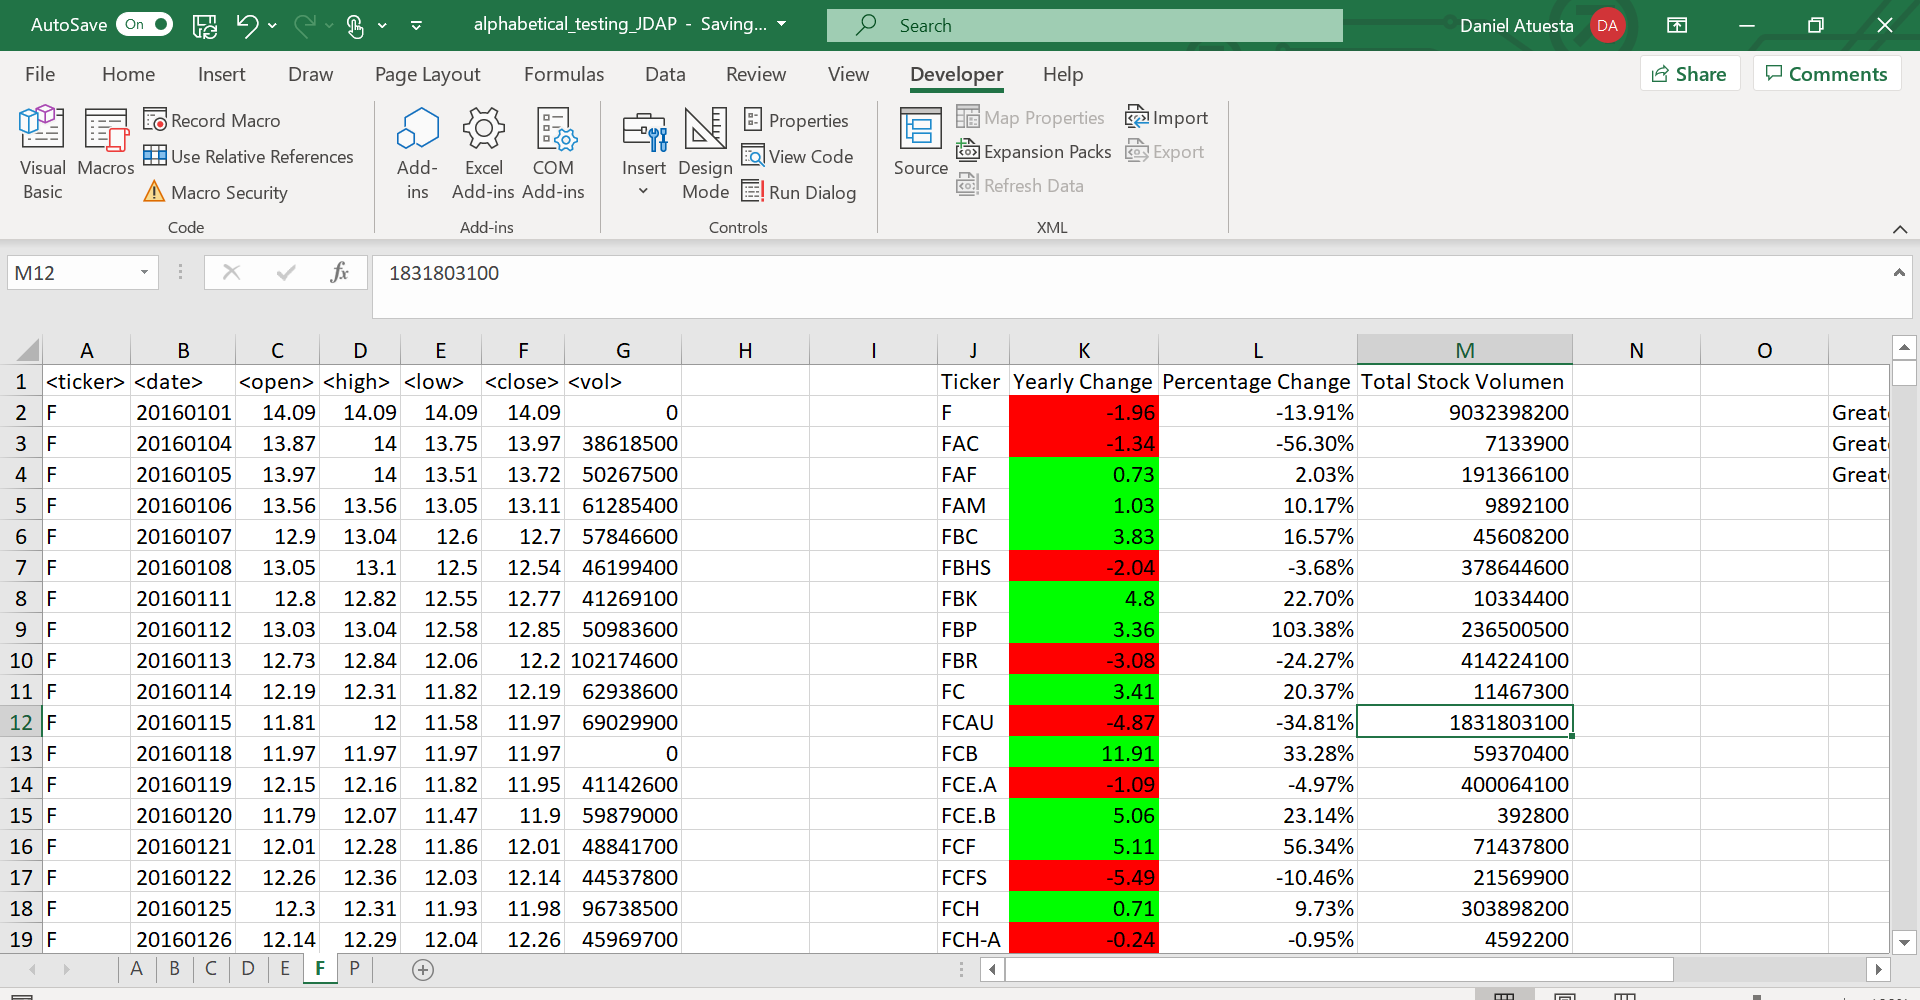
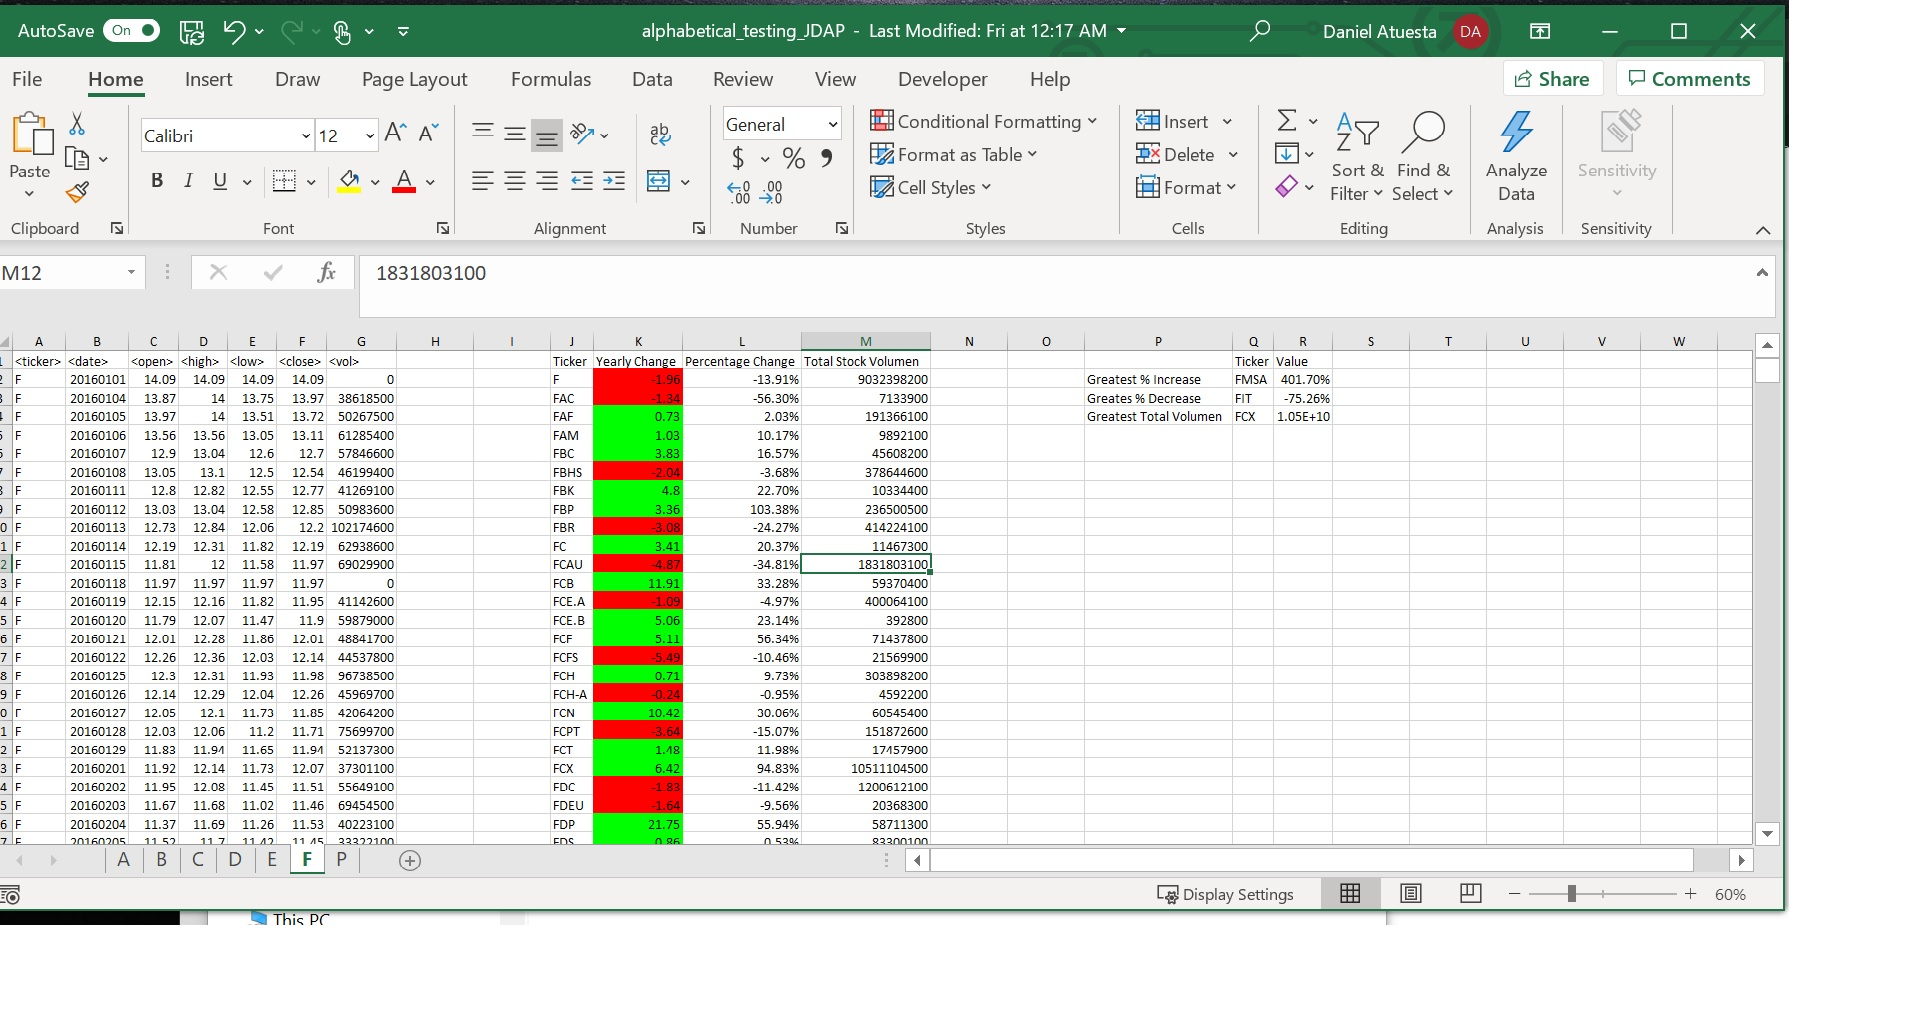
Changed the screenshot f for one that you can see the results. Added text desribing the results.

diff --git a/README.md b/README.md
@@ -16,14 +16,13 @@ February, 2021
 
 ### What you will find in this Repository
 
-On the following repository the reader will be able to find
-my solution to the homework assignment VBA scripting. The repository will be organized into several folders:
+On the following repository the reader will be able to find my solution to the homework assignment VBA scripting. The repository will be organized into several folders:
 
 1. Folder one will have Images that are related to the readme.md class instructions. You can avoid navigating this folder
 2. Folder two will have the screenshots for the solutions. Inside this folder you will have two other folders each one containing the screenshots of the Alphabetical testing results and the Multi Yearly Stock Data.
-3. Folder three contains all the VBA scripts used for both the alphabetical testing and the Multi Yealy Stock Data. They are essentially the same code what changes are the Sub () name.
+3. Folder three contains all the VBA scripts used for both the alphabetical testing and the Multi Yearly Stock Data. They are essentially the same code what changes are the Sub () name.
 
-I hope you find my work to not only be complete but displaying all of the knowledge learned through out this portion of the Bootcamp at Northwestern University.
+I hope you find my work to not only be complete but displaying all of the knowledge learned throughout this portion of the Data Science Bootcamp at Northwestern University.
 
 ---
 
@@ -31,9 +30,7 @@ I hope you find my work to not only be complete but displaying all of the knowle
 
 ## Description of assignment
 
-For this challenge we are using VBA scripting to analyze
-real stock market data. We have been provided a database with the following
-information:
+For this challenge we are using VBA scripting to analyze real stock market data. We have been provided a database with the following information:
 
 * Stock identifier (Ticker)
 * Date
@@ -45,8 +42,7 @@ information:
 
 Using VBA scripting out challenges were the following:
 
-1. Loop through all stocks for one year and output
-   the following information on separate columns
+1. Loop through all stocks for one year and output the following information on separate columns
 
    * The ticker symbol.
    * Yearly change from opening price at the beginning of a given year to the closing price at the end of that year.
@@ -68,17 +64,28 @@ Here are the results I got after accomplishing all the challanges. The results a
 
 ![WorksheetA](SolutionScreenShots/Alphabetical_Testing/ScreenShot_A.jpg)
 
-![WorksheetB](SolutionScreenShots/Alphabetical_Testing/ScreenShot_B.jpg)
+During period A, the stock with the greatest percetn increase was AKS. The stock with the greatest percent decrease was ADPT and, the stock with the greatest total volume was AA. ![WorksheetB](SolutionScreenShots/Alphabetical_Testing/ScreenShot_B.jpg)
+
+During period B, the stock with the greatest percetn increase was BAS. The stock with the greatest percent decrease was BCEI and, the stock with the greatest total volume was BAC.
 
 ![WorksheetC](SolutionScreenShots/Alphabetical_Testing/ScreenShot_C.jpg)
 
-![WorksheetD](SolutionScreenShots/Alphabetical_Testing/ScreenShot_D.jpg)
+During period C, the stock with the greatest percetn increase was CBO. The stock with the greatest percent decrease was CGG and, the stock with the greatest total volume was CHK.![WorksheetD](SolutionScreenShots/Alphabetical_Testing/ScreenShot_D.jpg)
+
+During period D, the stock with the greatest percetn increase was DRD. The stock with the greatest percent decrease was DYN.W and, the stock with the greatest total volume was DNR.
 
 ![WorksheetE](SolutionScreenShots/Alphabetical_Testing/ScreenShot_E.jpg)
 
-![WorksheetF](SolutionScreenShots/Alphabetical_Testing/ScreenShot_F.jpg)
+During period E, the stock with the greatest percetn increase was EBR. The stock with the greatest percent decrease was EMG and, the stock with the greatest total volume was EAC.
+
+
+![WorksheetF](SolutionScreenShots/Alphabetical_Testing/ScreenShot_f.jpg)
+
+During period F, the stock with the greatest percetn increase was FMSA. The stock with the greatest percent decrease was FIT and, the stock with the greatest total volume was FCX.
 
 ![WorksheetP](SolutionScreenShots/Alphabetical_Testing/ScreenShot_P.jpg)
+
+During period P, the stock with the greatest percetn increase was PANW. The stock with the greatest percent decrease was PWE and, the stock with the greatest total volume was PBR.
 
 ### Multi Year Stock Data outcomes
 
@@ -90,9 +97,13 @@ Here are the results I got after accomplishing all the challanges. The results a
 
 ![Year 2014](SolutionScreenShots/MultiYearlyStockData/ScreenShot_Year_2014.jpg)
 
+During the year 2014, the stock with the greatest percetn increase was DM. The stock with the greatest percent decrease was CBD and, the stock with the greatest total volume was BAC.
+
 ![Year 2015](SolutionScreenShots/MultiYearlyStockData/ScreenShot_Year_2015.jpg)
 
-![Year 2016](SolutionScreenShots/MultiYearlyStockData/ScreenShot_Year_2016.jpg)
+During the year 2015, the stock with the greatest percetn increase was APR. The stock with the greatest percent decrease was KMI.W and, the stock with the greatest total volume was BAC.![Year 2016](SolutionScreenShots/MultiYearlyStockData/ScreenShot_Year_2016.jpg)
+
+During the year 2016, the stock with the greatest percetn increase was SD. The stock with the greatest percent decrease was DYN.W and, the stock with the greatest total volume was BAC.
 
 As you can appreciate I was able to write a VBA script that in a single run was able to loop through all the worksheets in the workbook and complete the challenges mentioned on the description of assignment tab above.
 
@@ -101,7 +112,6 @@ As you can appreciate I was able to write a VBA script that in a single run was 
 # References
 
 In the VBA scripts I placed the links to different webpages I used to be able to accomplish this project. You can also find here a list of the references I used:
-
 
 Acampora, J. (2015, May 11). *VBA Tutorial: Find the Last Row, Column, or Cell on a Sheet*. Retrieved from Excel Campus: https://www.excelcampus.com/vba/find-last-row-columncell/#:~:text=To%20find%20the%20last%20used,the%20rows%20in%20the%20worksheet.
 
@@ -112,7 +122,6 @@ AutomateExcel. (2021). *VBA Sum Function (Ranges, Columns, & More)*. Retrieved f
 ExcelHowTo. (2014, September 11). *Formatting a Range of Cells In Excel VBA*. Retrieved from Excel How To: https://www.excelhowto.com/macros/formatting-a-range-of-cells-in-excel-vba/
 
 **Please note: *I am new to READ.md files and I could not do the proper citation of the references following the APA style***
-
 
 ---
 
